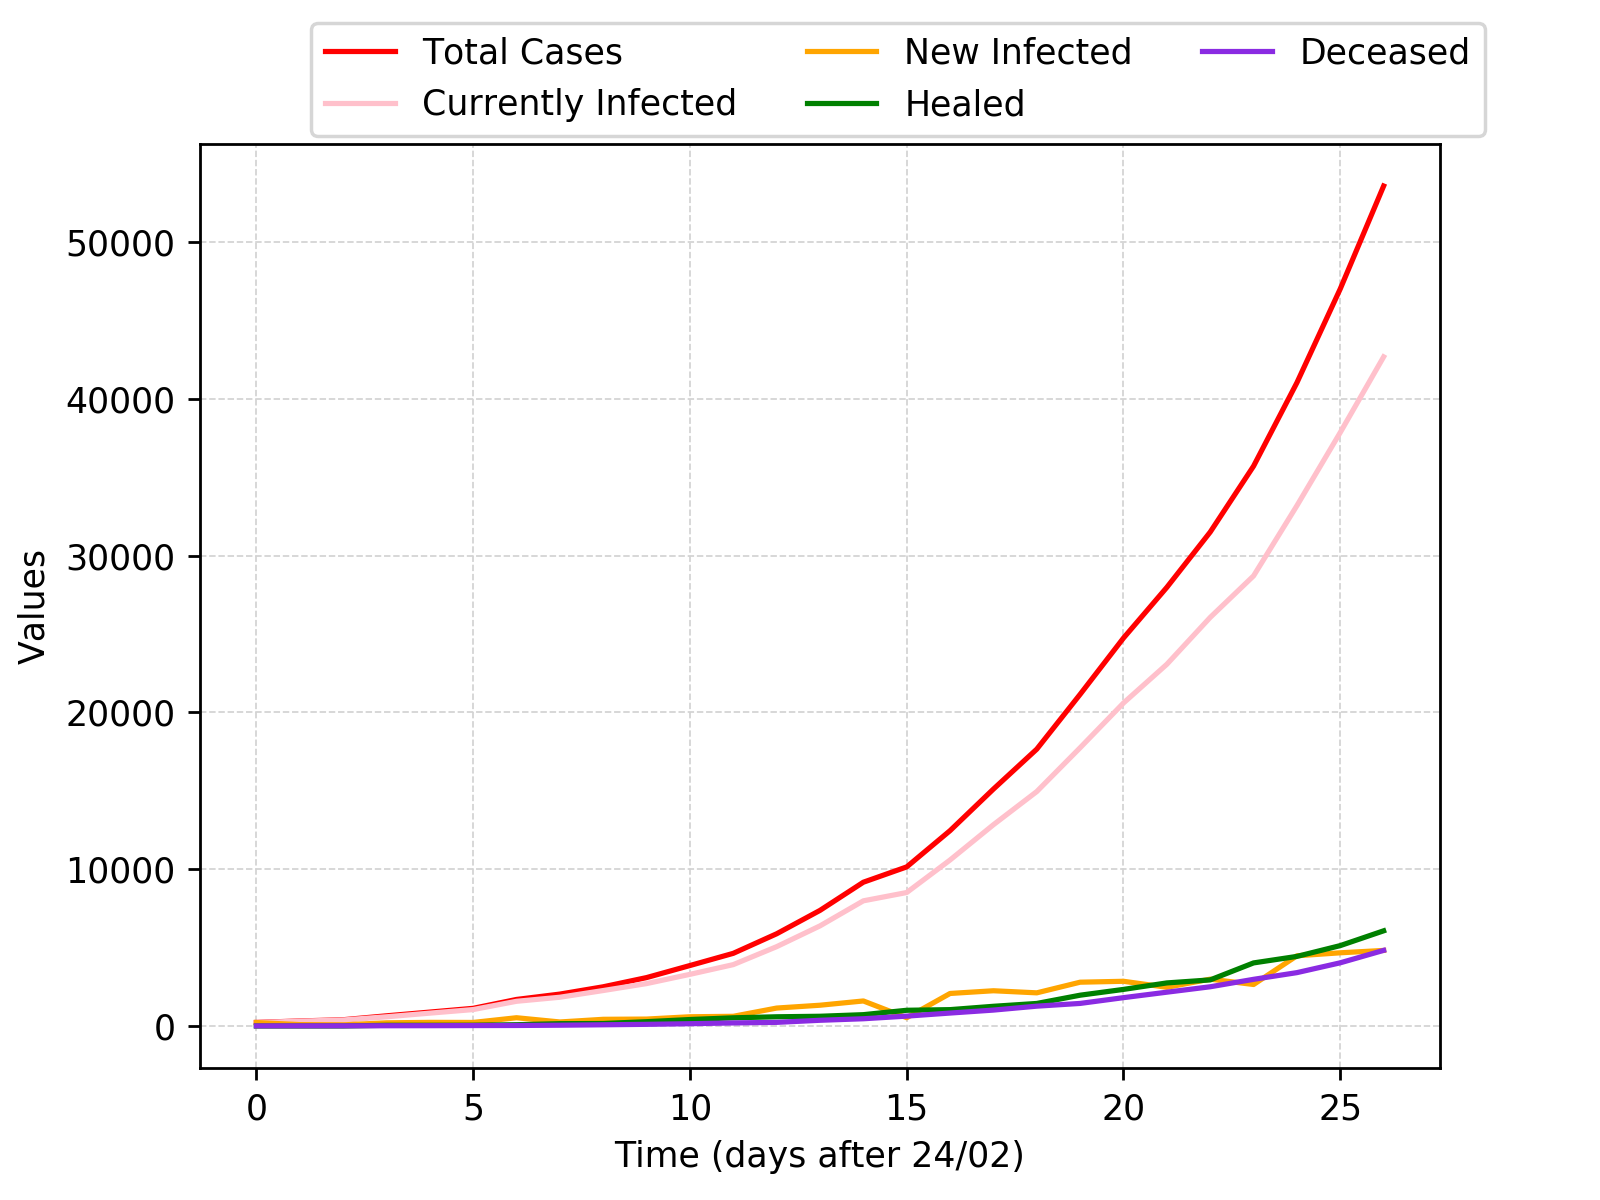
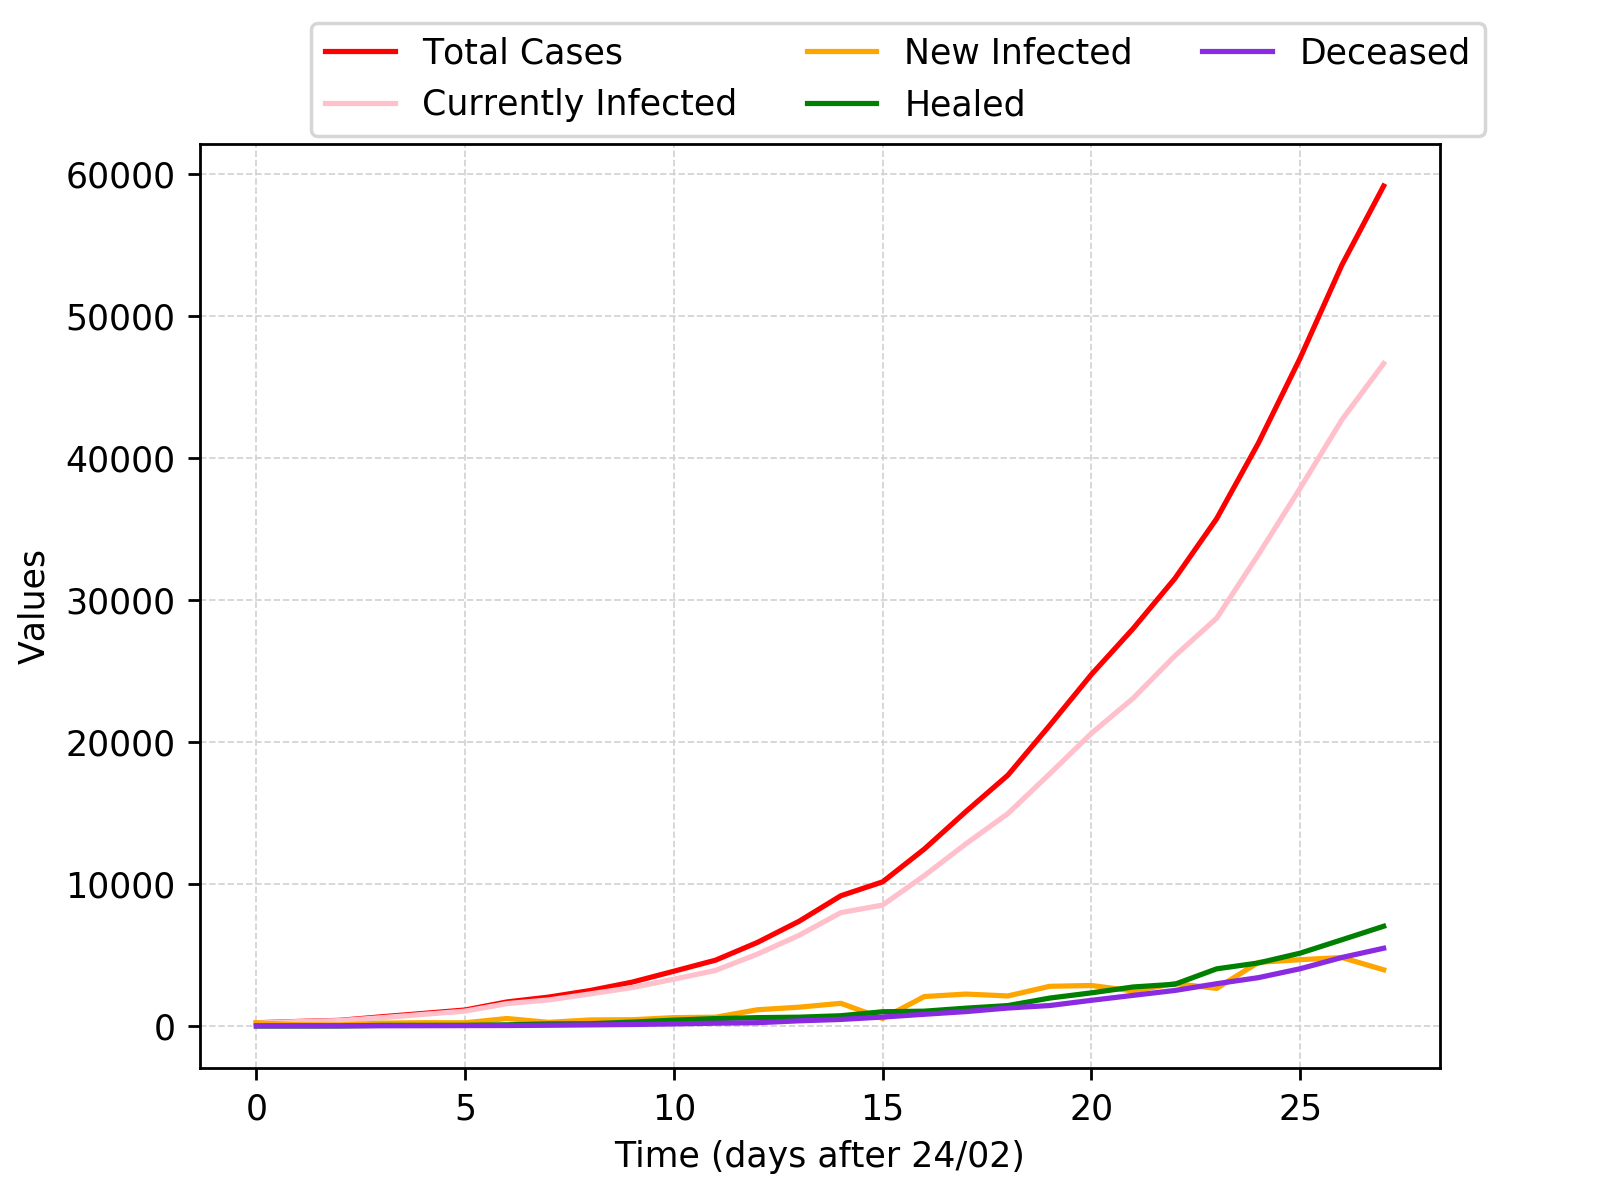
update to 22nd of march

diff --git a/regional.py b/regional.py
@@ -46,7 +46,7 @@ print(dataset.iloc[lambda x: x.index > 524][
 # monitoring hospitals in fvg
 print('\n MONITORING SITUATION IN FVG HOSPITALS')
 
-last_date = '2020-03-21 17:00:00'
+last_date = '2020-03-22 17:00:00'
 last_tot_cases = dataset.loc[dataset['data']==last_date][['denominazione_regione','totale_casi','totale_attualmente_positivi', 'totale_ospedalizzati', 'terapia_intensiva']]
 
 print('\nTotale casi in fvg')

diff --git a/trieste.py b/trieste.py
@@ -41,7 +41,7 @@ dataset.info()
 # monitoring Trieste
 print('\n MONITORING SITUATION IN TRIESTE')
 
-last_date = '2020-03-21 17:00:00'
+last_date = '2020-03-22 17:00:00'
 last_tot_cases = dataset.loc[dataset['data']==last_date][['denominazione_provincia','totale_casi']]
 
 casi_trieste = last_tot_cases.loc[last_tot_cases['denominazione_provincia']=='Trieste']['totale_casi']
